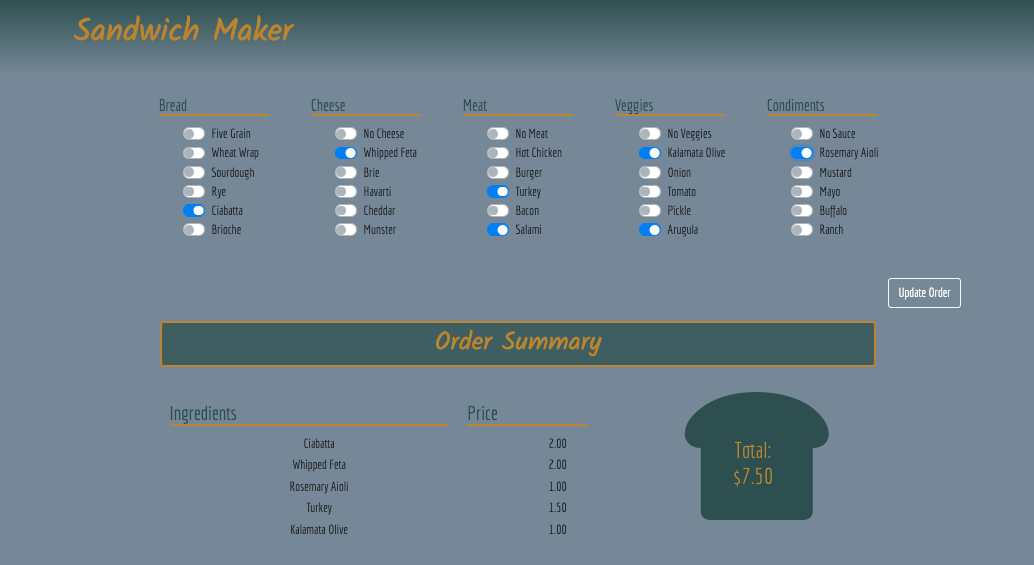
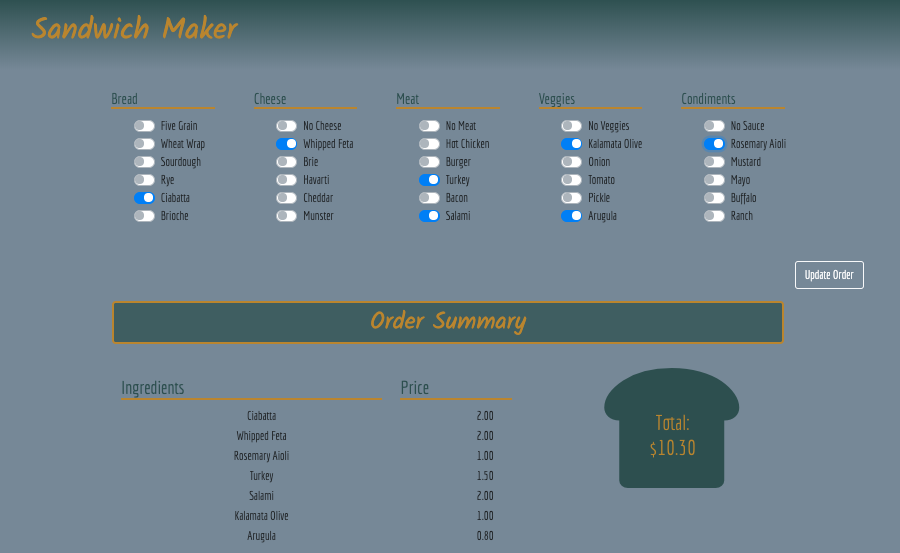
fixed but that failed to print last checkbox from each row

diff --git a/javascripts/components/condiment.js b/javascripts/components/condiment.js
@@ -31,7 +31,7 @@ const condimentArr = [
 const getCondimentSelection = () => {
     const selectedCondimentArr = [];
     const condimentCheckbox = document.getElementsByClassName('condimentItem');
-    for(let n = 0; n < condimentArr.length; n++){
+    for(let n = 0; n <= condimentArr.length; n++){
         const selectedCondimentId = condimentCheckbox[n].id;
         for(let x = 0; x < condimentArr.length; x++){
             if(condimentCheckbox[n].checked && selectedCondimentId === condimentArr[x].id){

diff --git a/javascripts/components/cheese.js b/javascripts/components/cheese.js
@@ -31,7 +31,7 @@ const cheeseArr = [
 const getCheeseSelection = () => {
     const selectedCheeseArr = [];
     const cheeseCheckbox = document.getElementsByClassName('cheeseItem');
-    for(let n = 0; n < cheeseArr.length; n++){
+    for(let n = 0; n <= cheeseArr.length; n++){
         const selectedCheeseId = cheeseCheckbox[n].id;
         for(let x = 0; x < cheeseArr.length; x++){
             if(cheeseCheckbox[n].checked && selectedCheeseId === cheeseArr[x].id){

diff --git a/javascripts/components/veggie.js b/javascripts/components/veggie.js
@@ -31,7 +31,7 @@ const veggieArr = [
 const getVeggieSelection = () => {
     const selectedVeggieArr = [];
     const veggieCheckbox = document.getElementsByClassName('veggieItem');
-    for(let n = 0; n < veggieArr.length; n++){
+    for(let n = 0; n <= veggieArr.length; n++){
         const selectedVeggieId = veggieCheckbox[n].id;
         for(let x = 0; x < veggieArr.length; x++){
             if(veggieCheckbox[n].checked && selectedVeggieId === veggieArr[x].id){

diff --git a/javascripts/components/meat.js b/javascripts/components/meat.js
@@ -31,7 +31,7 @@ const meatArr = [
 const getMeatSelection = () => {
     const selectedMeatArr = [];
     const meatCheckbox = document.getElementsByClassName('meatItem');
-    for(let n = 0; n < meatArr.length; n++){
+    for(let n = 0; n <= meatArr.length; n++){
         const selectedMeatId = meatCheckbox[n].id;
         for(let x = 0; x < meatArr.length; x++){
             if(meatCheckbox[n].checked && selectedMeatId === meatArr[x].id){
